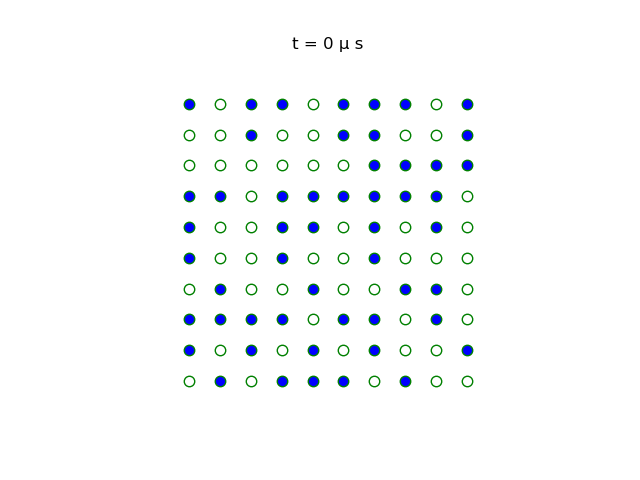
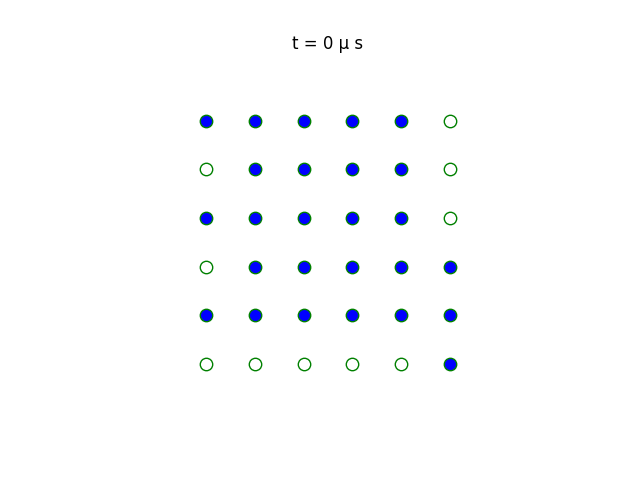
Fix windows PPSU bugs

diff --git a/PPSU2023/bottleneckBipartiteMatching.c b/PPSU2023/bottleneckBipartiteMatching.c
@@ -537,50 +537,50 @@ void printMatrix(int *col_ptrs, int *fend_cols, int *col_ids, double *col_vals, 
 	{
 		return;/*do nothing for large*/
 	}	
-	double myA[m][n];
+	double *myA = (double*)malloc(m * n * sizeof(double));
 	for (i = 0; i < m; i++)
-	{		
+	{
 		for (j = 0; j < n; j++)
-			myA[i][j] = 0.0;
+			myA[i * n + j] = 0.0;
 	}
 	for (j= 0; j < n; j++)
 	{
 		for (int z = col_ptrs[j]; z <= fend_cols[j]; z++)
 		{
-			myA[col_ids[z]][j] = col_vals[z];
-		}				
+			myA[col_ids[z] * n + j] = col_vals[z];
+		}
 	}
 	for (i = 0; i < m; i++)
 	{
 		for (j = 0; j < n; j++)
 		{
-			myPrintf(" %.4f", myA[i][j]);
+			myPrintf(" %.4f", myA[i * n + j]);
 		}
 		myPrintf("\n");
 	}
 	myPrintf("=========Other view==========\n");
 	for (i = 0; i < m; i++)
-	{		
+	{
 		for (j = 0; j < n; j++)
-			myA[i][j] = 0.0;
+			myA[i * n + j] = 0.0;
 	}
 	for (i= 0; i < m; i++)
 	{
 		for (int z = row_ptrs[i]; z <= fend_rows[i]; z++)
 		{
-			myA[i][row_ids[z]] = row_vals[z];
-		}				
+			myA[i * n + row_ids[z]] = row_vals[z];
+		}
 	}
 	for (i = 0; i < m; i++)
 	{
 		for (j = 0; j < n; j++)
 		{
-			myPrintf(" %.4f", myA[i][j]);
+			myPrintf(" %.4f", myA[i * n + j]);
 		}
 		myPrintf("\n");
 	}
+	free(myA);
 }
-
 void minheapverify(int qsz, double *vals)
 {
 	int i;

diff --git a/PPSU2023/portable_time.h b/PPSU2023/portable_time.h
@@ -11,13 +11,7 @@
 #pragma comment(lib, "ws2_32.lib")  // Link Winsock for select()
 
 // timeval structure (not in Windows by default unless winsock is included)
-#ifndef _TIMEVAL_DEFINED
-#define _TIMEVAL_DEFINED
-struct timeval {
-    long tv_sec;
-    long tv_usec;
-};
-#endif
+// Under Windows winsock2.h defines timeval, so we shouldn't redefine it.
 
 // Emulate gettimeofday()
 static inline int gettimeofday(struct timeval *tp, void *tzp) {

diff --git a/atommovr/algorithms/source/PPSU_weight_matching.py b/atommovr/algorithms/source/PPSU_weight_matching.py
@@ -11,9 +11,7 @@ MODULE_DIR = os.path.dirname(os.path.abspath(__file__))
 BASE_DIR = os.path.abspath(os.path.join(MODULE_DIR, "../../../"))
 PPSU_DIR = os.path.join(BASE_DIR, "PPSU2023")
 
-LIB_NAME = (
-    "libmatching_for_PPSU.dll" if sys.platform == "win32" else "libmatching_for_PPSU.so"
-)
+LIB_NAME = "libmatching_for_PPSU.dll" if sys.platform == "win32" else "libmatching_for_PPSU.so"
 LIB_PATH = os.path.join(PPSU_DIR, LIB_NAME)
 SETUPC_PATH = os.path.join(PPSU_DIR, "setupc.py")
 

diff --git a/PPSU2023/setupc.py b/PPSU2023/setupc.py
@@ -71,7 +71,8 @@ class BuildSharedLibrary(build_ext):
                 extra_postargs=ext.extra_compile_args,
             )
 
-            lib_path = os.path.join(output_dir, "libmatching_for_PPSU.so")
+            lib_name = "libmatching_for_PPSU.dll" if sys.platform == "win32" else "libmatching_for_PPSU.so"
+            lib_path = os.path.join(output_dir, lib_name)
             self.compiler.link_shared_object(
                 objects,
                 lib_path,

diff --git a/atommovr/tests/conftest.py b/atommovr/tests/conftest.py
@@ -10,6 +10,9 @@ from __future__ import annotations
 
 import numpy as np
 import pytest
+import matplotlib
+
+matplotlib.use("Agg")
 
 from atommovr.utils.AtomArray import AtomArray
 from atommovr.tests.support.doubles import TimingSpyErrorModel